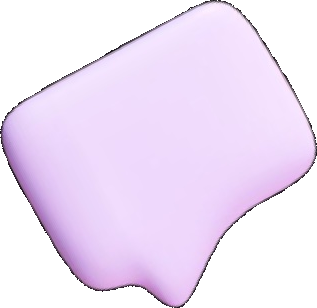
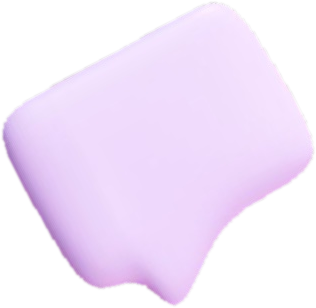
fix: clean bubble edges + stronger text rotation

diff --git a/src/app/page.tsx b/src/app/page.tsx
@@ -116,11 +116,11 @@ export default function Home() {
             <img src="/images/hero-character.png" alt="Learn languages with Linguo" className="w-full h-full object-contain drop-shadow-2xl" />
             <motion.div animate={{y:[0,-10,0]}} transition={{duration:3,repeat:Infinity}} className="absolute top-8 right-4 w-[130px] h-[110px] flex items-center justify-center">
               <img src="/images/bubble-pink.png" alt="" className="absolute inset-0 w-full h-full object-contain" />
-              <span className="relative z-10 font-bold text-slate-800 text-base -mt-3 -rotate-6">Hola!</span>
+              <span className="relative z-10 font-extrabold text-slate-800 text-base -mt-4 -rotate-12">Hola!</span>
             </motion.div>
             <motion.div animate={{y:[0,-8,0]}} transition={{duration:2.5,repeat:Infinity,delay:0.5}} className="absolute top-32 left-0 w-[120px] h-[100px] flex items-center justify-center">
               <img src="/images/bubble-purple.png" alt="" className="absolute inset-0 w-full h-full object-contain" />
-              <span className="relative z-10 font-medium text-purple-900 text-xs -mt-1 rotate-3">こんにちは 🇯🇵</span>
+              <span className="relative z-10 font-bold text-purple-900 text-xs -mt-2 rotate-6">こんにちは 🇯🇵</span>
             </motion.div>
           </div>
         </motion.div>
